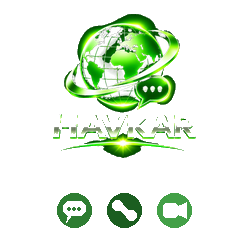
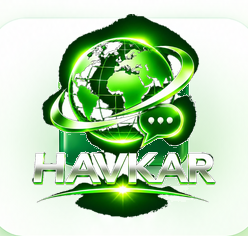
fix(home): restore Owner mint messenger tile without damaged transparency
Replace transparency-damaged triple-icon artwork with the original
approved mint logo. Soft-match plate to other tiles; remove extra
bottom icons; keep logo colors/text intact; align Messenger label.

diff --git a/index.html b/index.html
@@ -360,12 +360,6 @@ h1 {
         0 -1px 0 rgba(255, 255, 255, 0.85);
 }
 
-/* Messenger title must stay readable like other tiles (no overlap wash-out). */
-.menu-item[data-havkar-tile="messenger"] .tile-label {
-    bottom: 5%;
-    font-size: 8.2cqw;
-}
-
 .icon-buy,
 .icon-jobs,
 .icon-services,
@@ -849,7 +843,7 @@ html[data-havkar-entry="home"] .havkar-legal-footer {
         </a>
 
         <a class="menu-item" href="chat.html" data-havkar-tile="messenger">
-            <img src="assets/home/chat.png?v=owner-transparent-noframe-v2-20261126" alt="HAVKAR Messenger" width="248" height="236">
+            <img src="assets/home/chat.png?v=owner-mint-restored-20261126" alt="HAVKAR Messenger" width="248" height="236">
             <span class="tile-label" data-i18n="Messenger">Messenger</span>
         </a>
 
